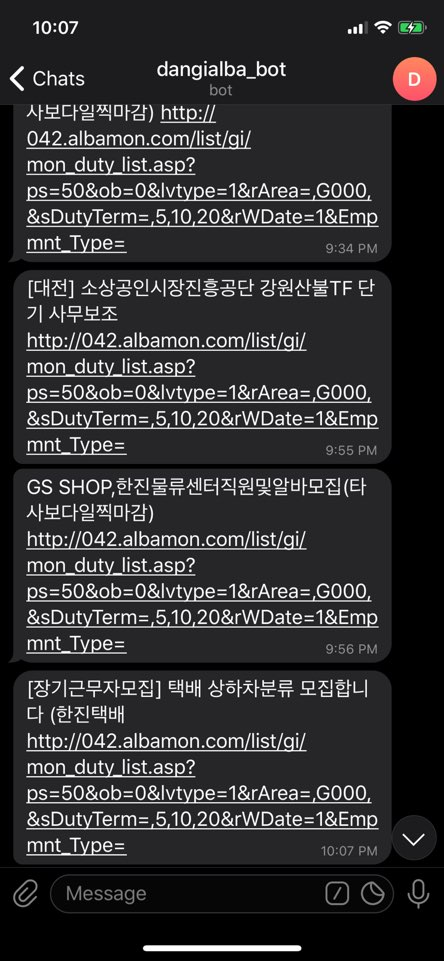
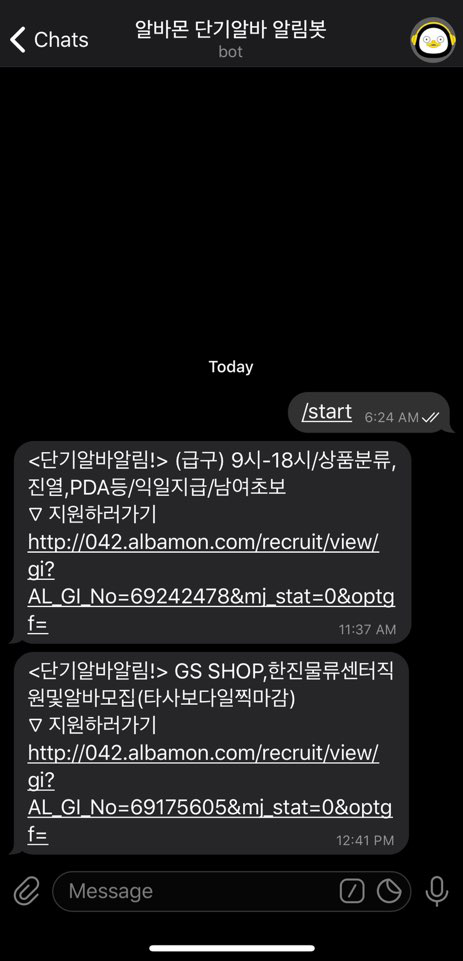
fix contents

diff --git a/content/blog/Python/telegram-bot.md b/content/blog/Python/telegram-bot.md
@@ -6,7 +6,7 @@ draft: false
 ---   
 
 ## Intro
-대부분의  취준생들은  돈이  부족하다. 고정적인  알바를  할  수  있지만  그렇게  하기는 시간적으로  부담이  되서  단기  알바를  찾게 된다. 대전  지역에는  할 만한 단기  알바  공고가  많이  없고, 괜찮은 공고가  올라오면  많은  사람들이  지원하기  때문에  선착순으로  마감  후  내리는  경우가  많다. 즉, 빨리 지원하는 사람이  알바를  할 수 있는 확률이  높다. 어플에  맞춤알바  알림  기능이  있지만  알림이  제대로  오지  않아서  사이트를  수시로  확인을  해야하는  번거로움이  있었다. 그래서  알바몬  사이트에  단기  알바  공고가  올라오면  알림  메세지를  보내주는  새  글  알림  텔레그램  봇을  만들어  보았다.
+대부분의  취준생들은  돈이  부족하다. 고정적인  알바를  할  수  있지만  그렇게  하기는 시간적으로  부담이  되서  단기  알바를  찾게 된다. 대전  지역에는  할 만한 단기  알바  공고가  많이  없고, 괜찮은 공고가  올라오면  많은  사람들이  지원하기  때문에  선착순으로  마감  후  내리는  경우가  많다. 즉, 빨리 지원하는 사람이  알바를  할 수 있는 확률이  높다. 어플에  맞춤알바  알림  기능이  있지만  알림이  제대로  오지  않아서  사이트를  수시로  확인을  해야하는  번거로움이  있었다. 알바 구직 사이트는 크게 알바천국과 알바몬이 있다. 확인해 본 결과로는 알바몬이 확실히 이용률이 높다. 그래서  알바몬  사이트에  단기  알바  공고가  올라오면  알림  메세지를  보내주는  새  글  알림  텔레그램  봇을  만들어  보았다. 
 
 ## Process
 ### 텔레그램 봇 생성
@@ -45,23 +45,24 @@ bot.sendMessage(chat_id=1234567890, text="테스트입니다.")
 
 해당 페이지의 공고 중 첫 번째에 게시된 글의 제목을 가져온다.   
 ```python
-html = requests.get('URL')
+html = requests.get('http://042.albamon.com/list/gi/mon_duty_list.asp?ps=50&ob=0&lvtype=1&rArea=,G000,&sDutyTerm=,5,10,20&rWDate=1&Empmnt_Type=')
 html.encoding = 'euc-kr'
 soup = BeautifulSoup(html.text, 'html.parser')
-posts = soup.select('p.cTit')
+posts = soup.select('p.cTit > a')
+link = posts[0].get('href')
 latest = posts[0].text
 ```   
 첫 번째 게시된 공고의 제목이 *latest.txt* 에 저장이 되고,    
-그 제목이 같지 않을 경우 새로운 공고의 제목을 메세지로 알려준다.   
+그 제목이 같지 않을 경우 새로운 공고의 제목과 링크를 메세지로 보내준다.   
 ```python
 with open(os.path.join(BASE_DIR, 'latest.txt'), 'r+') as f_read:
     before = f_read.readline()
     f_read.close()
-        if before != latest:
-            bot.sendMessage(chat_id=chat_id, text=latest+' \nURL')
-            with open(os.path.join(BASE_DIR, 'latest.txt'), 'w+') as f_write:
-                f_write.write(latest)
-                f_write.close()
+    if before != latest:
+        bot.sendMessage(chat_id=chat_id,text='<단기알바알림!> '+latest+'\n▽ 지원하러가기'+'\nhttp://042.albamon.com'+link)
+        with open(os.path.join(BASE_DIR, 'latest.txt'), 'w+') as f_write:
+            f_write.write(latest)
+            f_write.close()
 ```   
 30초마다 확인하도록 설정했다.   
 ```python
@@ -78,9 +79,8 @@ python alba_crawler.py
 ![chat](images/2020-1/04.png)   
 
 ## Review
-어제 배운 [movie_crawler](https://github.com/DeepxHyeon/movie_crawler)를 토대로 내가 불편함을 느꼈던 곳에 바로 적용해보았다. 이 정도로 정리를 해본 건 처음인데 생각보다 시간이 걸린다. 하다 보면 빨리 할 수 있겠지? 검색하면 나오는 보기 좋게 정리된 글들에 감사함을 느끼게 된다. 테스트 후에는 AWS로 배포까지 마쳤다. 취업하기 전까지 잘 사용해야겠다. 아쉬운 점이 있다면 택배 알바 알림이 많이 온다는 것ㅠㅠ택배는 알바라고 할 수 없다. 이 부분은 나중에 개선해봐야겠다. 그리고 알고리즘 공부하자 ! 
+어제 배운 [movie_crawler](https://github.com/DeepxHyeon/movie_crawler)를 토대로 내가 불편함을 느꼈던 곳에 바로 적용해보았다. 아쉬운 점이 있다면 택배 알바 알림이 많이 온다는 것ㅠㅠ이 부분은 개선해서 테스트 중이다. 블로그 포스팅 하는데 조금 걸리지만 이런 시간들도 의미 있는 일이라 생각하며 열심히 해볼테다.
 
 ## Reference   
 [웹페이지 업데이트를 알려주는 Telegram 봇](https://beomi.github.io/gb-crawling/posts/2017-04-20-HowToMakeWebCrawler-Notice-with-Telegram.html)    
 [파이썬으로 영화 예매 오픈 알리미 만들기](https://www.inflearn.com/course/%EC%98%81%ED%99%94%EC%98%88%EB%A7%A4-%ED%8C%8C%EC%9D%B4%EC%8D%AC#)
-
